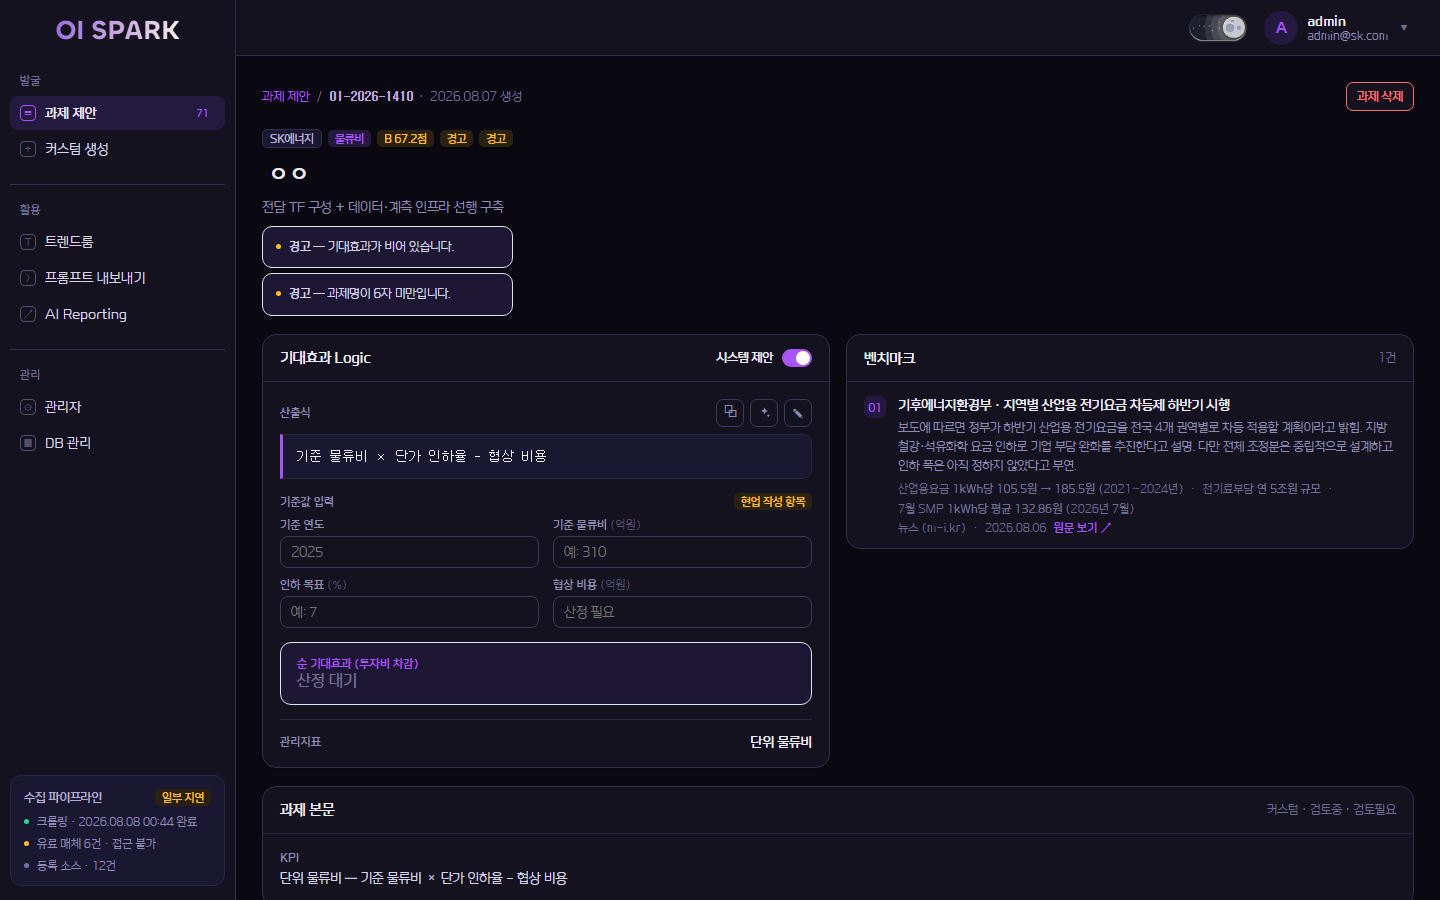
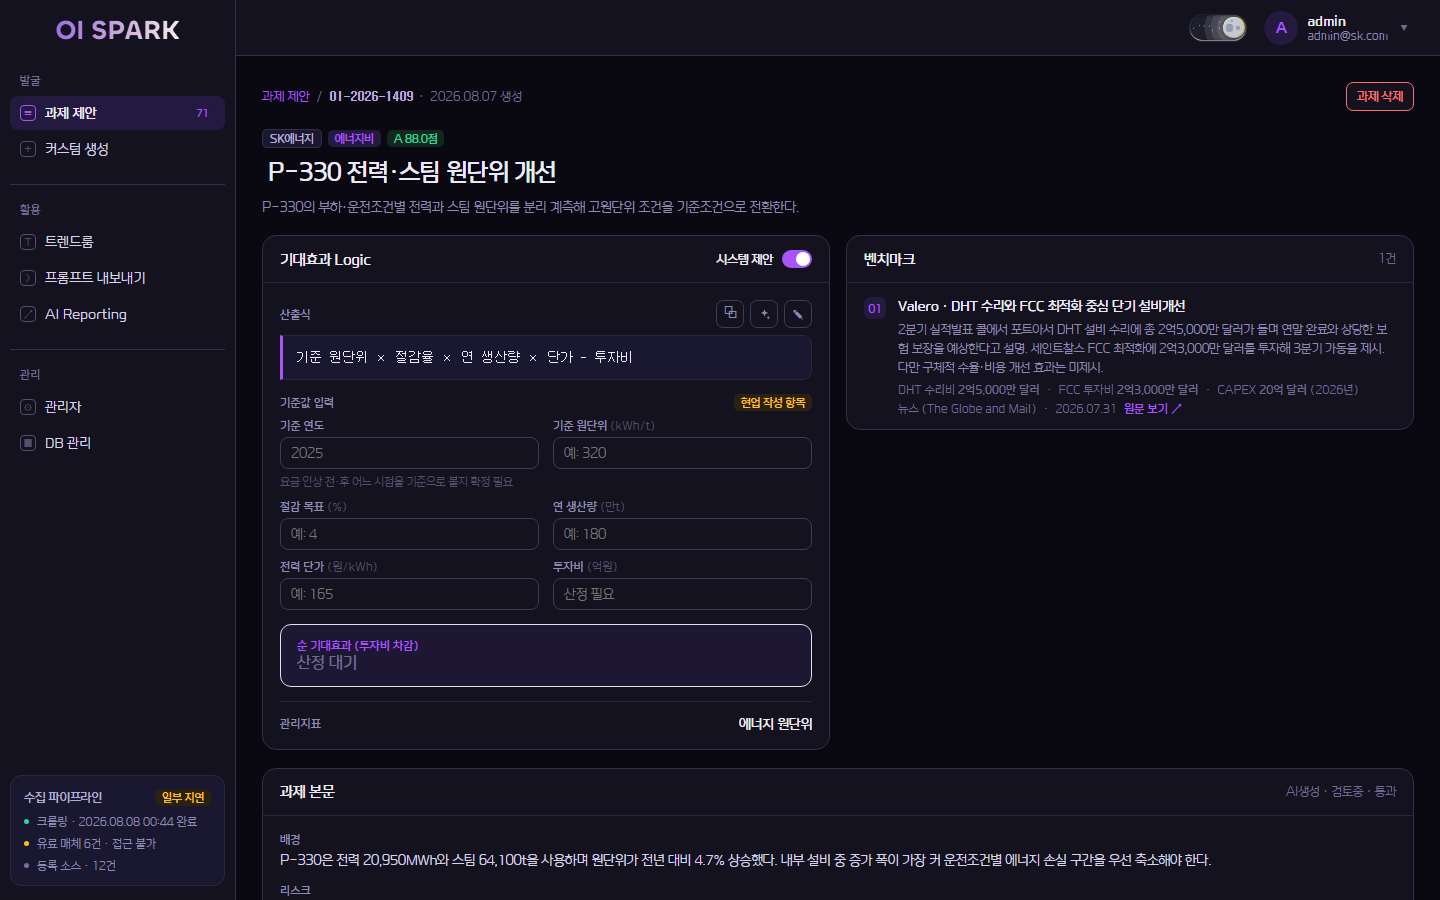
랜딩 다듬기: 별 배경 원형·네온 글로우 + 섹션 제목·개요 이미지 교체
- 별 배경: box-shadow 사각 픽셀 → 원형(border-radius:50%) + 선명한 흰 코어에
  글로우 헤일로를 겹쳐 또렷하면서 빛나게 (blur 만 키우면 흐려지는 문제 해결)
- 서비스 개요 제목 '주요 기능과' → '주요 페이지와 외부자료 DB'
- 개요 'DB/학습 Logic' 카드 캡처를 테스트 과제 → 정상 과제(P-330 원단위 개선)로 교체

diff --git a/frontend/src/views/Login.jsx b/frontend/src/views/Login.jsx
@@ -4,14 +4,17 @@ import { useMemo, useState } from "react";
  * 항상 다크(퍼플/블루 · 별 배경). 회원가입/로그인 버튼 → 대시보드(/) 이동. */
 
 /* 별 배경 box-shadow 문자열 생성 (레이어별) */
-function makeStars(n) {
-  let s = "";
+function makeStars(n, glow = 0) {
+  // 선명한 흰 코어(blur 0) + 넓게 번지는 글로우 헤일로를 겹쳐, 하얗고 또렷하면서 빛나게.
+  // blur 만 키우면 빛이 퍼져 중심이 흐려지므로(=먼지처럼) 코어를 항상 따로 둔다.
+  const parts = [];
   for (let i = 0; i < n; i++) {
     const x = Math.floor(Math.random() * 2000);
     const y = Math.floor(Math.random() * 2000);
-    s += `${x}px ${y}px #fff${i < n - 1 ? "," : ""}`;
+    parts.push(`${x}px ${y}px 0 #fff`);
+    if (glow > 0) parts.push(`${x}px ${y}px ${glow}px rgba(255,255,255,.55)`);
   }
-  return s;
+  return parts.join(",");
 }
 
 export default function Login() {
@@ -47,9 +50,9 @@ export default function Login() {
   };
 
   const stars = useMemo(() => ({
-    s1: makeStars(420),
-    s2: makeStars(150),
-    s3: makeStars(80),
+    s1: makeStars(420, 0),
+    s2: makeStars(150, 3),
+    s3: makeStars(80, 7),
   }), []);
 
   return (
@@ -101,7 +104,7 @@ export default function Login() {
         <section id="work" className="lp-section lp-wrap">
           <div className="lp-sec-head">
             <div className="lp-eyebrow">서비스 개요</div>
-            <h2 className="lp-h2">주요 기능과 외부자료 DB</h2>
+            <h2 className="lp-h2">주요 페이지와 외부자료 DB</h2>
           </div>
           <div className="ov-grid">
             {OVERVIEW.map((o) => (
@@ -269,8 +272,8 @@ const LP_CSS = `
 
 /* 별 배경 */
 .lp-stars{position:fixed;inset:0;z-index:0;overflow:hidden;pointer-events:none}
-.lp .stars{position:absolute;top:0;left:0;background:transparent;box-shadow:var(--sh)}
-.lp .stars::after{content:" ";position:absolute;top:2000px;left:0;background:transparent;box-shadow:var(--sh)}
+.lp .stars{position:absolute;top:0;left:0;background:transparent;box-shadow:var(--sh);border-radius:50%}
+.lp .stars::after{content:" ";position:absolute;top:2000px;left:0;background:transparent;box-shadow:var(--sh);border-radius:50%}
 .lp .s1{width:1px;height:1px;animation:lpstar 50s linear infinite}
 .lp .s1::after{width:1px;height:1px}
 .lp .s2{width:2px;height:2px;animation:lpstar 100s linear infinite}
